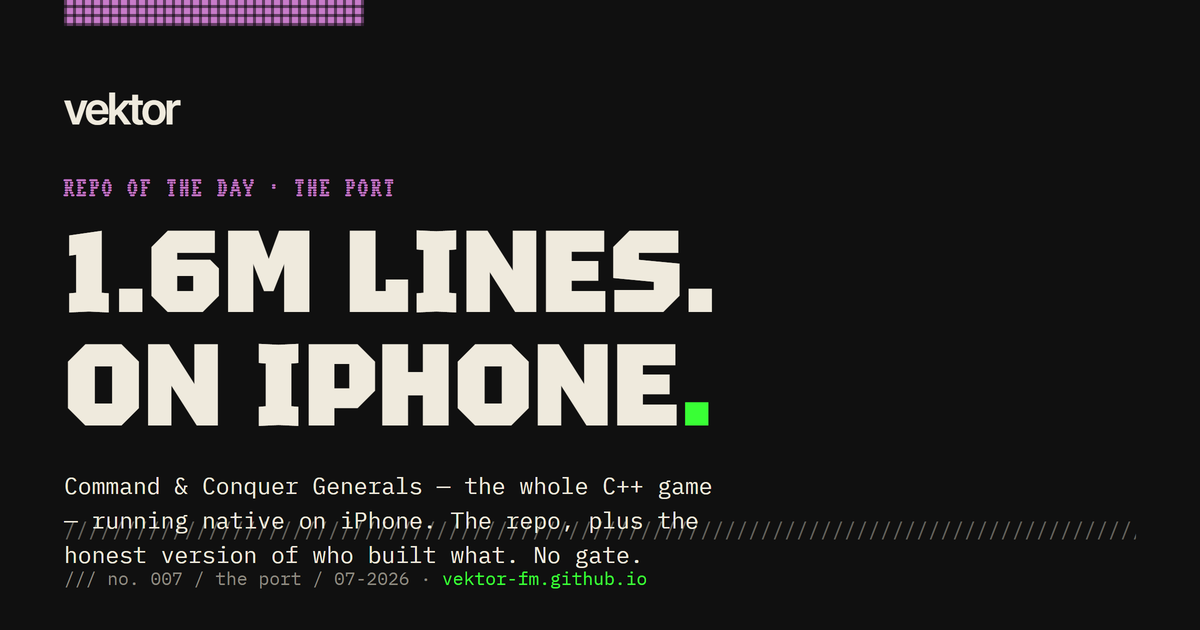
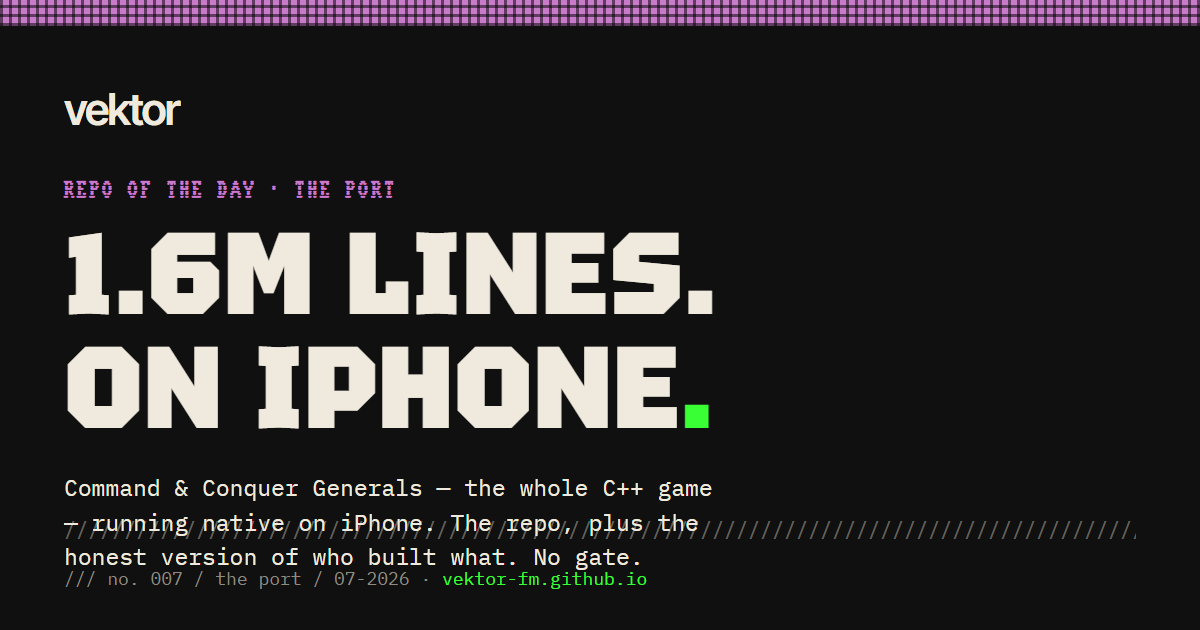
Weave polish: index band flush to top bar + full-bleed OG cards
- index: drop the weave div's inline margin-top:30px so the brand band sits
  flush against the chrome bar, matching the issue pages (no dark gap).
- OG share cards (og-src-no-007/013/015): weave left:64px;width:300px chip ->
  left:0;width:100% full-bleed across the card top, to match the pages.
  Re-rendered og/no-007/013/015.png at 1200x630 (015 was a stray 2400x1260).

Verified: 3 cards render full-width with real brand fonts + correct headlines;
index band flush with the bar.

diff --git a/og-src-no-007.html b/og-src-no-007.html
@@ -9,7 +9,7 @@
 *{box-sizing:border-box;margin:0;}
 html,body{width:1200px;height:630px;overflow:hidden;}
 body{background:#101010;color:#EFEADD;font-family:'IBM Plex Mono',monospace;position:relative;padding:56px 64px;}
-.weave{position:absolute;top:0;left:64px;height:26px;width:300px;background-color:#C77BC9;background-image:repeating-linear-gradient(90deg,rgba(16,16,16,.55) 0 3px,transparent 3px 9px),repeating-linear-gradient(0deg,rgba(16,16,16,.55) 0 3px,transparent 3px 9px),repeating-linear-gradient(90deg,rgba(255,255,255,.25) 0 1px,transparent 1px 9px);background-blend-mode:multiply;}
+.weave{position:absolute;top:0;left:0;height:26px;width:100%;background-color:#C77BC9;background-image:repeating-linear-gradient(90deg,rgba(16,16,16,.55) 0 3px,transparent 3px 9px),repeating-linear-gradient(0deg,rgba(16,16,16,.55) 0 3px,transparent 3px 9px),repeating-linear-gradient(90deg,rgba(255,255,255,.25) 0 1px,transparent 1px 9px);background-blend-mode:multiply;}
 .wm{font-family:'Inter Tight',sans-serif;font-weight:600;letter-spacing:-0.045em;font-size:44px;margin-top:26px;}
 .kick{font-family:'Workbench',monospace;text-transform:uppercase;letter-spacing:0.14em;font-size:20px;color:#C77BC9;margin-top:44px;}
 h1{font-family:'Tektur',sans-serif;font-weight:900;text-transform:uppercase;line-height:0.98;letter-spacing:0.005em;font-size:116px;margin-top:16px;}

diff --git a/og-src-no-013.html b/og-src-no-013.html
@@ -9,7 +9,7 @@
 *{box-sizing:border-box;margin:0;}
 html,body{width:1200px;height:630px;overflow:hidden;}
 body{background:#101010;color:#EFEADD;font-family:'IBM Plex Mono',monospace;position:relative;padding:56px 64px;}
-.weave{position:absolute;top:0;left:64px;height:26px;width:300px;background-color:#8FC5C9;background-image:repeating-linear-gradient(90deg,rgba(16,16,16,.55) 0 3px,transparent 3px 9px),repeating-linear-gradient(0deg,rgba(16,16,16,.55) 0 3px,transparent 3px 9px),repeating-linear-gradient(90deg,rgba(255,255,255,.25) 0 1px,transparent 1px 9px);background-blend-mode:multiply;}
+.weave{position:absolute;top:0;left:0;height:26px;width:100%;background-color:#8FC5C9;background-image:repeating-linear-gradient(90deg,rgba(16,16,16,.55) 0 3px,transparent 3px 9px),repeating-linear-gradient(0deg,rgba(16,16,16,.55) 0 3px,transparent 3px 9px),repeating-linear-gradient(90deg,rgba(255,255,255,.25) 0 1px,transparent 1px 9px);background-blend-mode:multiply;}
 .wm{font-family:'Inter Tight',sans-serif;font-weight:600;letter-spacing:-0.045em;font-size:44px;margin-top:26px;}
 .kick{font-family:'Workbench',monospace;text-transform:uppercase;letter-spacing:0.14em;font-size:20px;color:#8FC5C9;margin-top:44px;}
 h1{font-family:'Tektur',sans-serif;font-weight:900;text-transform:uppercase;line-height:0.98;letter-spacing:0.005em;font-size:150px;margin-top:18px;}

diff --git a/og-src-no-015.html b/og-src-no-015.html
@@ -9,7 +9,7 @@
 *{box-sizing:border-box;margin:0;}
 html,body{width:1200px;height:630px;overflow:hidden;}
 body{background:#101010;color:#EFEADD;font-family:'IBM Plex Mono',monospace;position:relative;padding:56px 64px;}
-.weave{position:absolute;top:0;left:64px;height:26px;width:300px;background-color:#8FC5C9;background-image:repeating-linear-gradient(90deg,rgba(16,16,16,.55) 0 3px,transparent 3px 9px),repeating-linear-gradient(0deg,rgba(16,16,16,.55) 0 3px,transparent 3px 9px),repeating-linear-gradient(90deg,rgba(255,255,255,.25) 0 1px,transparent 1px 9px);background-blend-mode:multiply;}
+.weave{position:absolute;top:0;left:0;height:26px;width:100%;background-color:#8FC5C9;background-image:repeating-linear-gradient(90deg,rgba(16,16,16,.55) 0 3px,transparent 3px 9px),repeating-linear-gradient(0deg,rgba(16,16,16,.55) 0 3px,transparent 3px 9px),repeating-linear-gradient(90deg,rgba(255,255,255,.25) 0 1px,transparent 1px 9px);background-blend-mode:multiply;}
 .wm{font-family:'Inter Tight',sans-serif;font-weight:600;letter-spacing:-0.045em;font-size:44px;margin-top:26px;}
 .kick{font-family:'Workbench',monospace;text-transform:uppercase;letter-spacing:0.14em;font-size:20px;color:#8FC5C9;margin-top:44px;}
 h1{font-family:'Tektur',sans-serif;font-weight:900;text-transform:uppercase;line-height:0.98;letter-spacing:0.005em;font-size:120px;margin-top:18px;}

diff --git a/index.html b/index.html
@@ -289,7 +289,7 @@
   <span class="marker">The Index</span>
 </header>
 
-<div class="weave" aria-hidden="true" style="margin-top:30px;"></div>
+<div class="weave" aria-hidden="true"></div>
 
 <!-- ============================ HERO / COVER ============================ -->
 <section class="hero">

diff --git a/src/index.body.html b/src/index.body.html
@@ -289,7 +289,7 @@
   <span class="marker">The Index</span>
 </header>
 
-<div class="weave" aria-hidden="true" style="margin-top:30px;"></div>
+<div class="weave" aria-hidden="true"></div>
 
 <!-- ============================ HERO / COVER ============================ -->
 <section class="hero">
